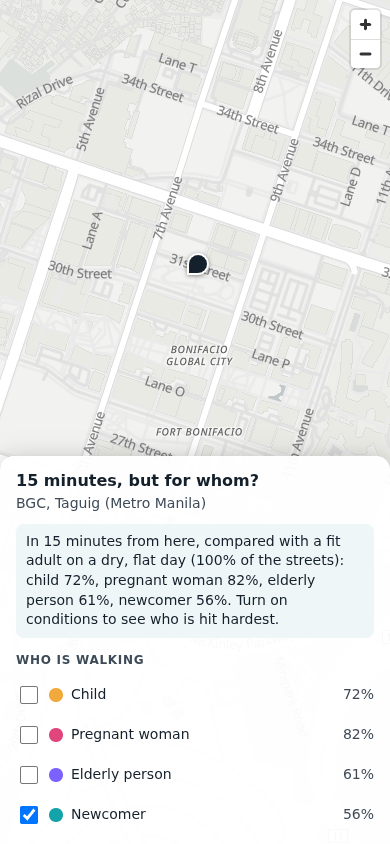
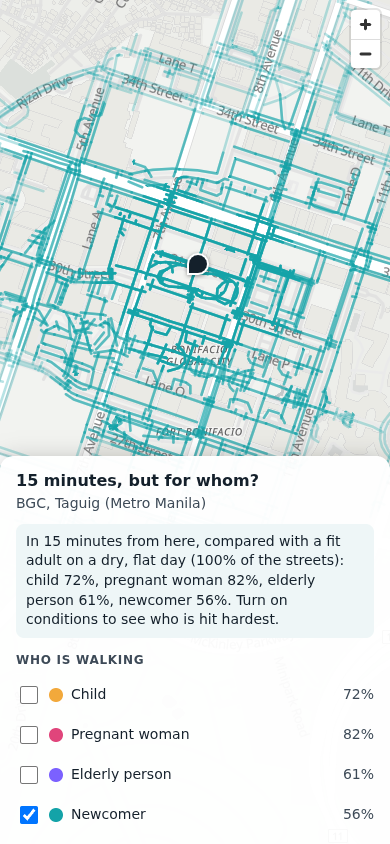
e2e: wait for each persona's rings before screenshots; run ring check at 390px

Changed region(s): [[0.0, 0.0, 1.0, 0.5545], [0.0, 0.5237, 0.0615, 0.5545], [0.1846, 0.5237, 0.2154, 0.5545]]

diff --git a/e2e/app.spec.ts b/e2e/app.spec.ts
@@ -56,27 +56,7 @@ async function clickMap(page: Page, dx = 30, dy = -40) {
   await expect(page.locator('#explain')).toContainText('In 15 minutes')
 }
 
-async function shootEachPersona(page: Page, prefix: string) {
-  for (const p of PERSONAS) {
-    for (const q of PERSONAS) await page.locator(`input[data-p="${q}"]`).setChecked(q === p)
-    await page.waitForFunction(() => {
-      // eslint-disable-next-line @typescript-eslint/no-explicit-any
-      return (window as any).__map.areTilesLoaded()
-    })
-    await page.screenshot({ path: `${SHOTS}/${prefix}-${p}.png` })
-  }
-}
-
-test('tiles render, then a click draws 5/10/15 min rings for all 4 personas', async ({ page }) => {
-  await openMap(page)
-  const rendered = await page.evaluate(() => {
-    // eslint-disable-next-line @typescript-eslint/no-explicit-any
-    const m = (window as any).__map
-    return m.queryRenderedFeatures().filter((f: { source: string }) => !f.source.startsWith('reach-')).length
-  })
-  expect(rendered, 'vector tiles should render features').toBeGreaterThan(50)
-
-  await clickMap(page)
+async function expectRings(page: Page) {
   const r = await reach(page)
   for (const p of PERSONAS) {
     for (const b of BANDS) {
@@ -99,6 +79,32 @@ test('tiles render, then a click draws 5/10/15 min rings for all 4 personas', as
   )
   expect(layers.length).toBe(12)
   expect(layers.every(Boolean)).toBe(true)
+}
+
+async function shootEachPersona(page: Page, prefix: string) {
+  for (const p of PERSONAS) {
+    for (const q of PERSONAS) await page.locator(`input[data-p="${q}"]`).setChecked(q === p)
+    // wait until this persona's rings are actually painted, not just tiles loaded
+    await page.waitForFunction((id) => {
+      // eslint-disable-next-line @typescript-eslint/no-explicit-any
+      const m = (window as any).__map
+      return m.areTilesLoaded() && m.queryRenderedFeatures({ layers: [`reach-${id}-5`, `reach-${id}-10`, `reach-${id}-15`] }).length > 0
+    }, p)
+    await page.screenshot({ path: `${SHOTS}/${prefix}-${p}.png` })
+  }
+}
+
+test('tiles render, then a click draws 5/10/15 min rings for all 4 personas', async ({ page }) => {
+  await openMap(page)
+  const rendered = await page.evaluate(() => {
+    // eslint-disable-next-line @typescript-eslint/no-explicit-any
+    const m = (window as any).__map
+    return m.queryRenderedFeatures().filter((f: { source: string }) => !f.source.startsWith('reach-')).length
+  })
+  expect(rendered, 'vector tiles should render features').toBeGreaterThan(50)
+
+  await clickMap(page)
+  await expectRings(page)
 
   await shootEachPersona(page, 'desktop')
 })
@@ -158,6 +164,7 @@ test('layout holds at 390px wide', async ({ browser }) => {
   expect(box!.x).toBeGreaterThanOrEqual(0)
   expect(box!.x + box!.width).toBeLessThanOrEqual(390)
   await clickMap(page, 0, -150)
+  await expectRings(page)
   await shootEachPersona(page, 'mobile')
   await ctx.close()
 })
